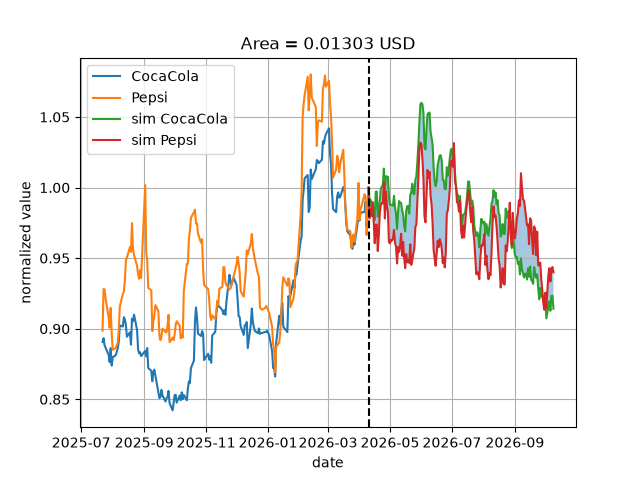
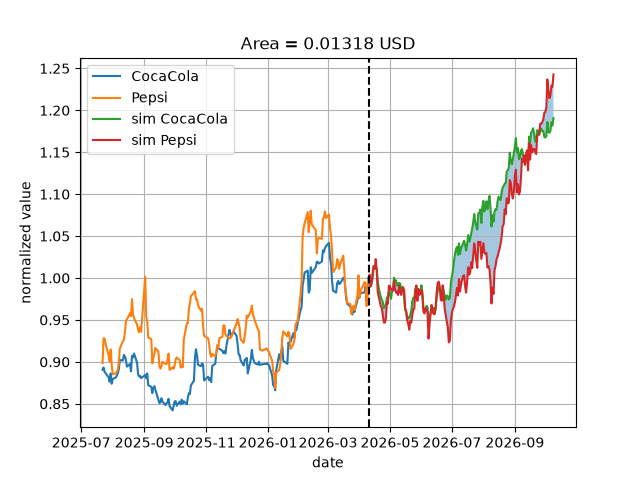
Adding variance reduction measurement

diff --git a/validation/var_red_test.py b/validation/var_red_test.py
@@ -1,0 +1,73 @@
+import numpy as np
+import pandas as pd
+
+from src.option.area_spread.area_spread import AreaSpreadOption as ASO
+from src.option.area_spread.var_red_area_spread import AreaSpreadOption as RVASO
+
+def validate_var_red() -> None:
+    KO = pd.read_csv("data/KO_stock.csv")
+    PEP = pd.read_csv("data/PEP_stock.csv")
+
+    red = RVASO(KO["Open"][::-1], PEP["Open"][::-1], 30, 0.1)
+    base = ASO(KO["Open"][::-1], PEP["Open"][::-1], 30, 0.1)
+
+    n_sims = 10000
+    amer_red_prices = np.empty(n_sims)
+    amer_base_prices = np.empty(n_sims)
+    eu_red_prices = np.empty(n_sims)
+    eu_base_prices = np.empty(n_sims)
+
+    for i in range(n_sims):
+        amer_red_prices[i] = red.american_price(1, 100, 10)
+        amer_base_prices[i] = base.american_price(1, 100, 10)
+        eu_red_prices[i] = red.european_price(1, 100, 10)
+        eu_base_prices[i] = base.european_price(1, 100, 10)
+        print(f"Iteration {i + 1}")
+
+    KO = pd.read_csv("data/KO_stock.csv")
+    PEP = pd.read_csv("data/PEP_stock.csv")
+
+    red = RVASO(KO["Open"][::-1], PEP["Open"][::-1], 30, 0.1)
+    base = ASO(KO["Open"][::-1], PEP["Open"][::-1], 30, 0.1)
+
+    n_sims = 10000
+    amer_red_prices = np.empty(n_sims)
+    amer_base_prices = np.empty(n_sims)
+    eu_red_prices = np.empty(n_sims)
+    eu_base_prices = np.empty(n_sims)
+
+    for i in range(n_sims):
+      amer_red_prices[i] = red.american_price(1, 100, 10)
+      amer_base_prices[i] = base.american_price(1, 100, 10)
+      eu_red_prices[i] = red.european_price(1, 100, 10)
+      eu_base_prices[i] = base.european_price(1, 100, 10)
+      print(f"Iteration {i + 1}")
+
+
+    n_boot = 1000
+    boot_amer_reductions = np.empty(n_boot)
+    boot_eu_reductions = np.empty(n_boot)
+
+    for i in range(n_boot):
+      indices = np.random.choice(n_sims, size=n_sims, replace=True)
+      b_amer_red = amer_red_prices[indices]
+      b_amer_base = amer_base_prices[indices]
+      b_eu_red = eu_red_prices[indices]
+      b_eu_base = eu_base_prices[indices]
+
+      boot_amer_reductions[i] = (1 - np.var(b_amer_red, ddof=1) / np.var(b_amer_base, ddof=1)) * 100
+      boot_eu_reductions[i] = (1 - np.var(b_eu_red, ddof=1) / np.var(b_eu_base, ddof=1)) * 100
+
+    alfa = 0.05
+    amer_ci = np.percentile(boot_amer_reductions, [100 * (alfa / 2), 100 * (1 - alfa / 2)])
+    eu_ci = np.percentile(boot_eu_reductions, [100 * (alfa / 2), 100 * (1 - alfa / 2)])
+
+    amer_point = (1 - np.var(amer_red_prices, ddof=1) / np.var(amer_base_prices, ddof=1)) * 100
+    eu_point = (1 - np.var(eu_red_prices, ddof=1) / np.var(eu_base_prices, ddof=1)) * 100
+
+    print(f"\nAmerican variance reduced by: {amer_point:.2f} % " f"(95% CI: [{amer_ci[0]:.2f}%, {amer_ci[1]:.2f}%])")
+    print(f"European variance reduced by: {eu_point:.2f} % " f"(95% CI: [{eu_ci[0]:.2f}%, {eu_ci[1]:.2f}%])"
+    )
+
+if __name__ == "__main__":
+    validate_var_red()

diff --git a/validation/put_accuracy.py b/validation/put_accuracy.py
@@ -1,13 +1,15 @@
-from option.put_benchmark.put import Put as QuantLibPut
 import pandas as pd
-from option.put.process_params import ProcessParams
-from option.put.process import Process
-from option.put.payoff import Payoff
+
 from option.put.discount import Discount
+from option.put.payoff import Payoff
+from option.put.process import Process
+from option.put.process_params import ProcessParams
+from option.put_benchmark.put import Put as QuantLibPut
 from pricer.american_pricer import AmericanPricer
 from pricer.european_pricer import EuropeanPricer
 from sde_simulator.option_params import OptionParams
 from sde_simulator.sde_engine import SDESimulator
+
 
 def validate_put() -> None:
     sigma = 0.5
@@ -46,10 +48,10 @@ def validate_put() -> None:
         amer_df.loc[k, "QuantLib"] = QuantLibPut.american_price(S0, k, T, r, sigma)
         amer_df.loc[k, "MyPut"] = ap(opt_par)
 
-    print("Parameters used : (S0 = {}, r = {}, sigma = {}, T = {})".format(S0, r, sigma, T))
+    print(f"Parameters used : (S0 = {S0}, r = {r}, sigma = {sigma}, T = {T})")
     print("Comparison of European put option prices:")
     print(euro_df)
-    print("simulation parameters : (n_sim = {}, n_intervals = {})".format(opt_par.n_sim, opt_par.n_intervals))
+    print(f"simulation parameters : (n_sim = {opt_par.n_sim}, n_intervals = {opt_par.n_intervals})")
     print("Grid 1000x1000)")
     print("Comparison of American put option prices:")
     print(amer_df)

diff --git a/src/option/area_spread/var_red_area_spread.py b/src/option/area_spread/var_red_area_spread.py
@@ -1,13 +1,14 @@
 import pandas as pd
-from option.area_spread.calibrator import Calibrator
+
 from option.area_spread.antithetic_process import Process
-from option.area_spread.payoff import Payoff
+from option.area_spread.calibrator import Calibrator
+from option.area_spread.controll_spread import Controll
 from option.area_spread.discount import Discount
+from option.area_spread.payoff import Payoff
 from option.area_spread.pricer.american_pricer import AmericanPricer
 from option.area_spread.pricer.european_pricer import EuropeanPricer
 from sde_simulator.option_params import OptionParams
 from sde_simulator.sde_engine import SDESimulator
-from option.area_spread.controll_spread import Controll    
 
 
 class AreaSpreadOption:

diff --git a/src/option/area_spread/pricer/american_pricer.py b/src/option/area_spread/pricer/american_pricer.py
@@ -1,10 +1,13 @@
-from typing import Callable
-from sde_simulator.sde_engine import SDESimulator
-from sde_simulator.option_params import OptionParams
-from sklearn.preprocessing import PolynomialFeatures
-from sklearn.linear_model import LinearRegression
-from option.area_spread.controll_spread import Controll
+from collections.abc import Callable
+
 import numpy as np
+from sklearn.linear_model import LinearRegression
+from sklearn.preprocessing import PolynomialFeatures
+
+from option.area_spread.controll_spread import Controll
+from sde_simulator.option_params import OptionParams
+from sde_simulator.sde_engine import SDESimulator
+
 
 class AmericanPricer:
     """

diff --git a/src/pricer/american_pricer.py b/src/pricer/american_pricer.py
@@ -1,9 +1,12 @@
-from typing import Callable
-from sde_simulator.sde_engine import SDESimulator
-from sde_simulator.option_params import OptionParams
-from sklearn.preprocessing import PolynomialFeatures
-from sklearn.linear_model import LinearRegression
+from collections.abc import Callable
+
 import numpy as np
+from sklearn.linear_model import LinearRegression
+from sklearn.preprocessing import PolynomialFeatures
+
+from sde_simulator.option_params import OptionParams
+from sde_simulator.sde_engine import SDESimulator
+
 
 class AmericanPricer:
     """

diff --git a/src/option/area_spread/area_spread.py b/src/option/area_spread/area_spread.py
@@ -1,8 +1,9 @@
 import pandas as pd
+
 from option.area_spread.calibrator import Calibrator
-from option.area_spread.process import Process
-from option.area_spread.payoff import Payoff
 from option.area_spread.discount import Discount
+from option.area_spread.payoff import Payoff
+from option.area_spread.process import Process
 from pricer.american_pricer import AmericanPricer
 from pricer.european_pricer import EuropeanPricer
 from sde_simulator.option_params import OptionParams

diff --git a/src/option/area_spread/pricer/european_pricer.py b/src/option/area_spread/pricer/european_pricer.py
@@ -1,8 +1,11 @@
-from typing import Callable
-from sde_simulator.sde_engine import SDESimulator
-from sde_simulator.option_params import OptionParams
-from option.area_spread.controll_spread import Controll
+from collections.abc import Callable
+
 import numpy as np
+
+from option.area_spread.controll_spread import Controll
+from sde_simulator.option_params import OptionParams
+from sde_simulator.sde_engine import SDESimulator
+
 
 class EuropeanPricer:
     """

diff --git a/src/option/put/put.py b/src/option/put/put.py
@@ -1,8 +1,9 @@
 import pandas as pd
+
 from option.put.calibrator import Calibrator
-from option.put.process import Process
-from option.put.payoff import Payoff
 from option.put.discount import Discount
+from option.put.payoff import Payoff
+from option.put.process import Process
 from pricer.american_pricer import AmericanPricer
 from pricer.european_pricer import EuropeanPricer
 from sde_simulator.option_params import OptionParams

diff --git a/src/option/put/visualizer.py b/src/option/put/visualizer.py
@@ -1,10 +1,10 @@
 import matplotlib.pyplot as plt
-import numpy
-import pandas as pd
-from sde_simulator.sde_engine import SDESimulator
-from sde_simulator.option_params import OptionParams
-from option.put.payoff import Payoff
 import numpy as np
+import pandas as pd
+
+from sde_simulator.option_params import OptionParams
+from sde_simulator.sde_engine import SDESimulator
+
 
 class Visualizer:
       """

diff --git a/examples/area_spread_fig.py b/examples/area_spread_fig.py
@@ -1,8 +1,10 @@
-from option.area_spread.visualizer import Visualizer
 import pandas as pd
+
 from option.area_spread.calibrator import Calibrator
 from option.area_spread.process import Process
+from option.area_spread.visualizer import Visualizer
 from sde_simulator.sde_engine import SDESimulator
+
 
 def generate_aso_fig() -> None:
     KO = pd.read_csv("data/KO_stock.csv")

diff --git a/src/option/area_spread/controll_spread.py b/src/option/area_spread/controll_spread.py
@@ -1,7 +1,8 @@
 import numpy as np
-from option.area_spread.process_params import ProcessParams
-from sde_simulator.option_params import OptionParams
 import scipy.stats as st
+
+from option.area_spread.process_params import ProcessParams
+
 
 class Controll:
     def __init__(self, par: ProcessParams):

diff --git a/examples/run_all.py b/examples/run_all.py
@@ -1,7 +1,8 @@
+from examples.area_spread_fig import generate_aso_fig
 from examples.price_aso import price_aso
 from examples.price_put import price_put
-from examples.area_spread_fig import generate_aso_fig
 from examples.put_fig import generate_put_fig
+
 
 def main() -> None:
     price_aso()
